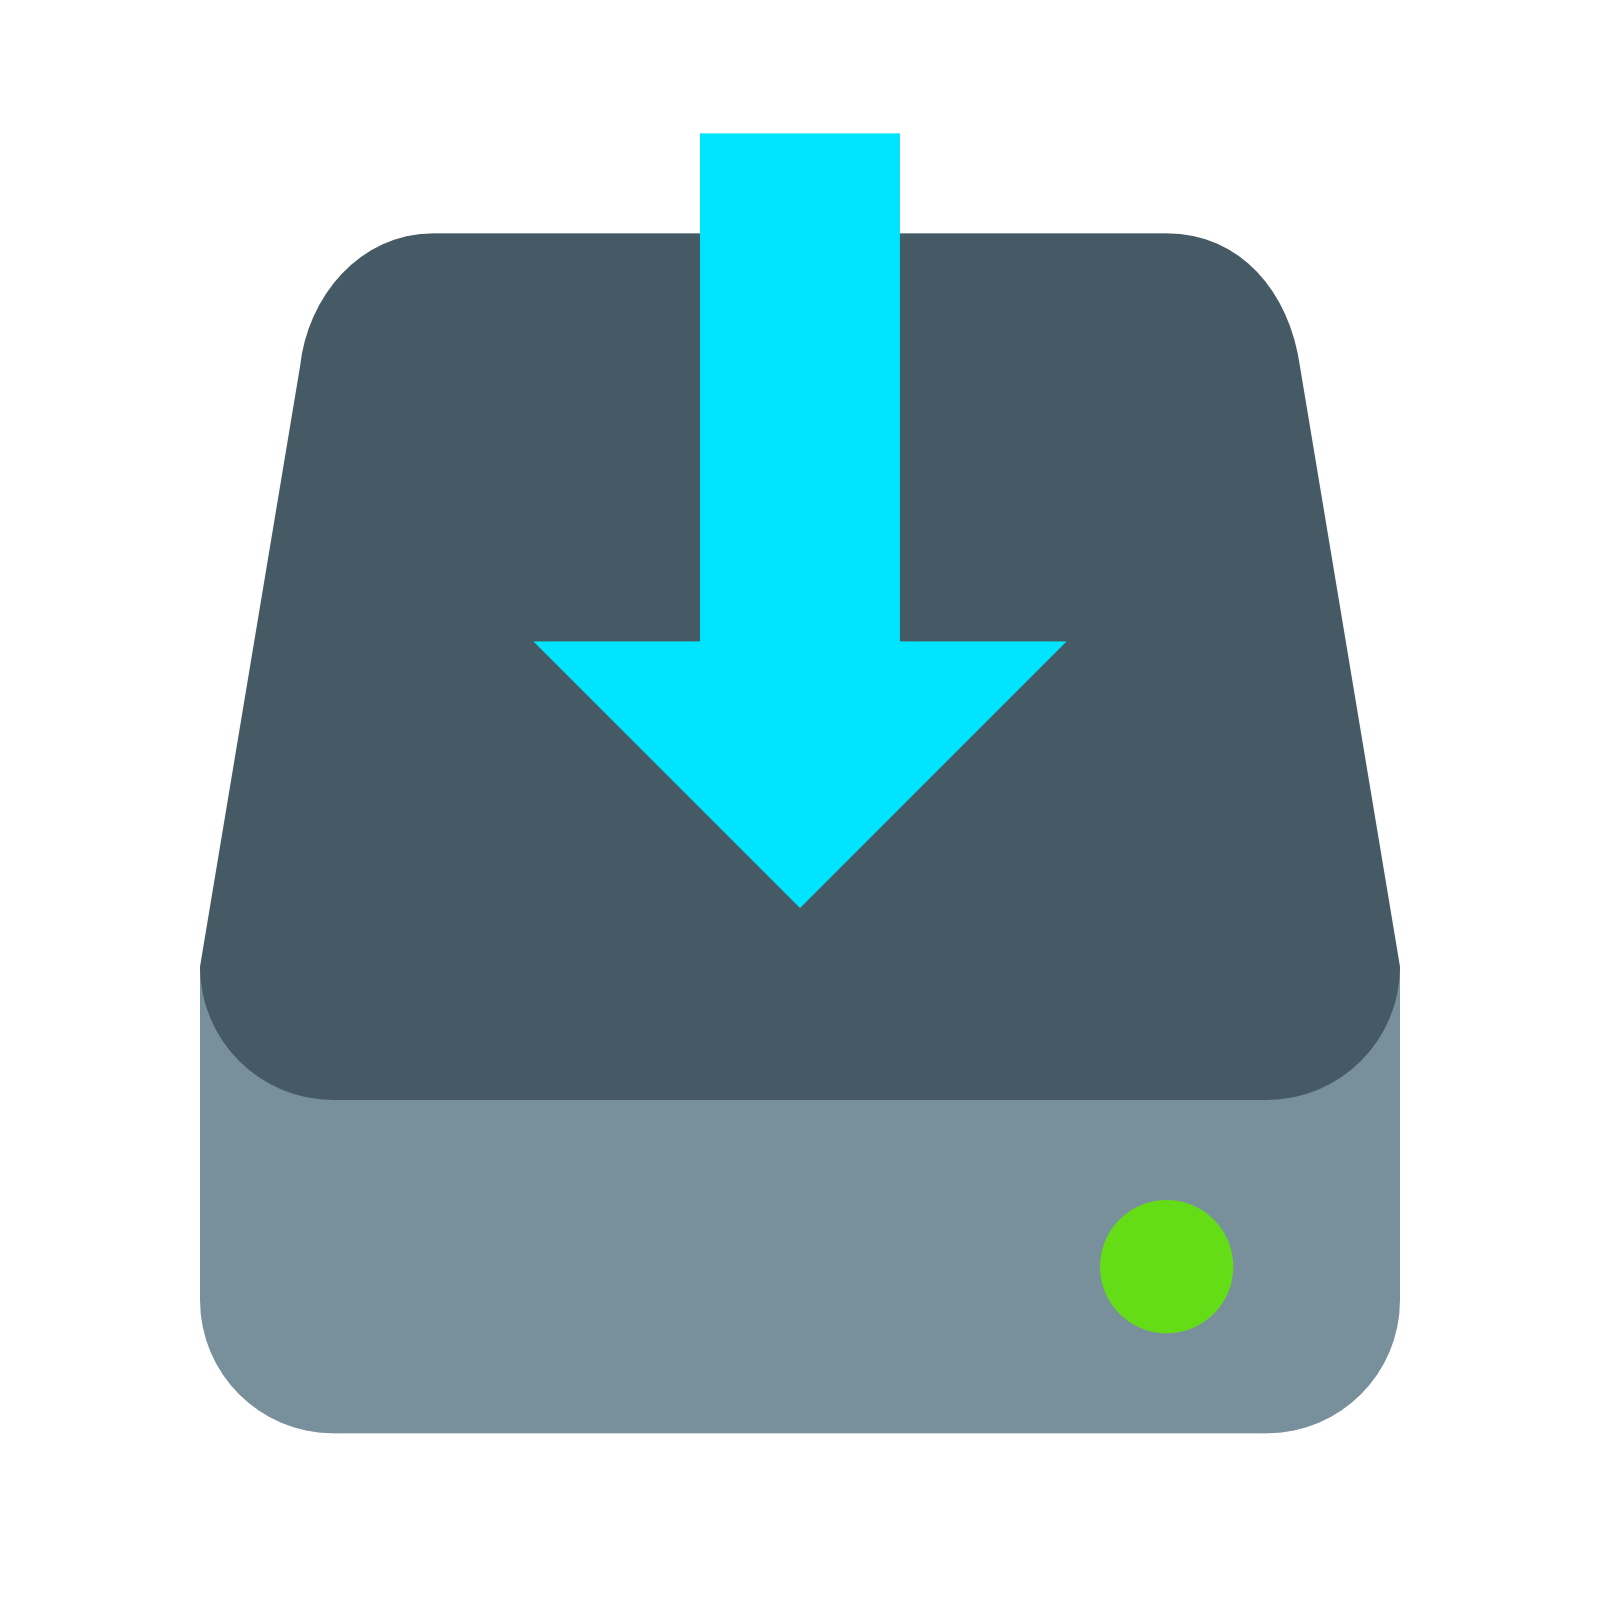
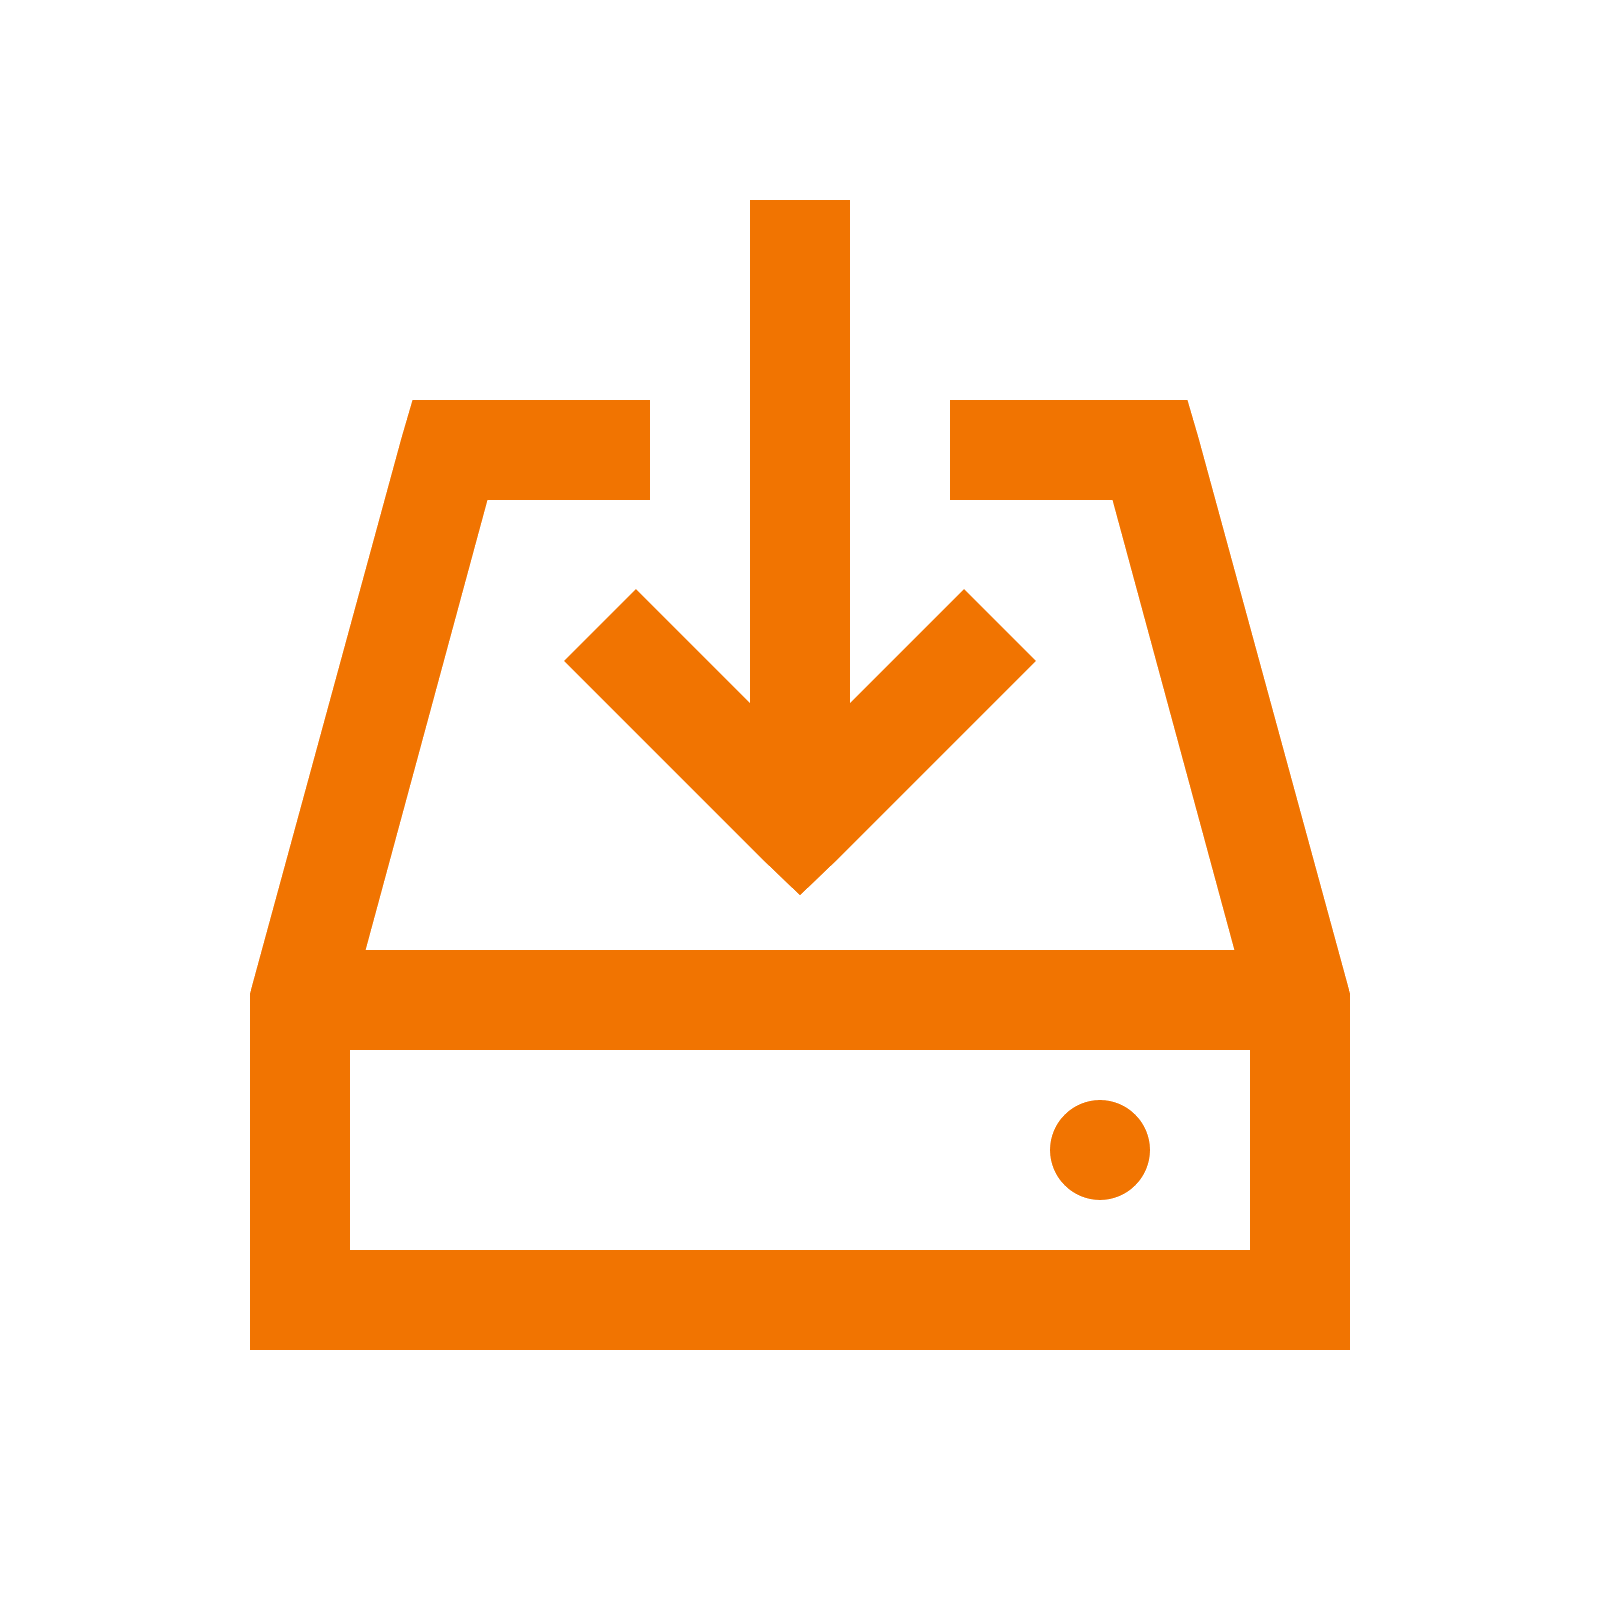
Changed the color scheme. Refactored the squares into circles.

diff --git a/src/components/App/App.tsx b/src/components/App/App.tsx
@@ -2,37 +2,35 @@ import React from 'react';
 import {Link} from 'react-router-dom';
 import baseInstallationImage from '../../assets/images/install.png'
 import configureNamespaceImage from '../../assets/images/configure.png'
-import upgradeNamespaceImage from '../../assets/images/upgrade2.png'
+import upgradeNamespaceImage from '../../assets/images/upgrade.png'
+import ReactTooltip from 'react-tooltip';
 
 
 const App = () => {
     return (
         <div className="w-full h-screen sm:flex items-center">
             <div
-                className="bg-gray-300 text-center px-12 pt-16 pb-20 wrapper sm:flex justify-center flex-col sm:mx-auto">
-                <h1 className="text-blue-900 text-3xl tracking-wide mb-48">Select your desired action.</h1>
-                <div className="grid gap-96 sm:grid-cols-3 mx-auto">
-                    <Link to="/base-installation">
-                        <div
-                            className="text-black bg-indigo-400 w-60 h-72 rounded-md justify-self-center flex flex-col justify-center items-center">
-                            <img src={baseInstallationImage} alt="Base Installation" className="w-24"/>
-                            <p className="mt-2 w-3/4">Base Installation</p>
+                className="text-center px-12 pt-16 pb-20 wrapper sm:flex justify-center flex-col sm:mx-auto">
+                <h1 className="text-yale-blue text-4xl tracking-wide mb-48"> Select your desired action</h1>
+                <div className="flex justify-evenly">
+                    <Link to="/base-installation" className="flex flex-col items-center">
+                        <div className="bg-steel-blue w-48 h-48 rounded-full p-8">
+                            <img src={baseInstallationImage} alt="Base Installation"/>
                         </div>
+                        <p className="mt-2 text-heat-wave text-xl w-3/4">Base Installation</p>
                     </Link>
-                    <Link to="/configure-namespace">
-                        <div
-                            className="text-white bg-indigo-400 w-60 h-72 rounded-md justify-self-center flex flex-col justify-center items-center">
-                            <img src={configureNamespaceImage} alt="Avatar" className="w-24"/>
-                            <p className="mt-2 w-3/4">Configure Namespace</p>
+                    <Link to="/configure-namespace" className="flex flex-col items-center">
+                        <div className="bg-steel-blue w-48 h-48 rounded-full p-8">
+                            <img src={configureNamespaceImage} alt="Configure Namespace"/>
                         </div>
+                        <p className="mt-2 text-heat-wave text-xl w-3/4">Configure Namespace</p>
                     </Link>
 
-                    <Link to="/upgrade-namespace">
-                        <div
-                            className="text-white bg-indigo-400 w-60 h-72 rounded-md justify-self-center flex flex-col justify-center items-center">
-                            <img src={upgradeNamespaceImage} alt="Avatar" className="w-24"/>
-                            <p className="mt-2 w-3/4">Upgrade Namespace</p>
+                    <Link to="/upgrade-namespace" className="flex flex-col items-center align-end">
+                        <div className="bg-steel-blue w-48 h-48 rounded-full p-8">
+                            <img src={upgradeNamespaceImage} alt="Upgrade Namespace" className="mt-2"/>
                         </div>
+                        <p className="mt-2 text-heat-wave text-xl w-3/4">Upgrade Namespace</p>
                     </Link>
                 </div>
             </div>

diff --git a/tailwind.config.js b/tailwind.config.js
@@ -1,10 +1,15 @@
 module.exports = {
     content: ['./src/**/*.{js,jsx,ts,tsx}',],
     theme: {
-        extend: {},
-        // colors: {
-        //     'alice-blue': '#dbe4ee'
-        // }
+        extend: {
+            colors: {
+                'yale-blue': '#054a91',
+                'steel-blue': '#3e7cb1',
+                'alice-blue': '#dbe4ee',
+                'iceberg': '#81a4cd',
+                'heat-wave': '#f17300'
+            }
+        },
     },
     plugins: [],
 }

diff --git a/public/index.html b/public/index.html
@@ -27,7 +27,7 @@
     -->
     <title>React App</title>
 </head>
-<body class="bg-white>
+<body style="background: #dbe4ee;">
 <noscript>You need to enable JavaScript to run this app.</noscript>
 <div id="root"></div>
 <!--
